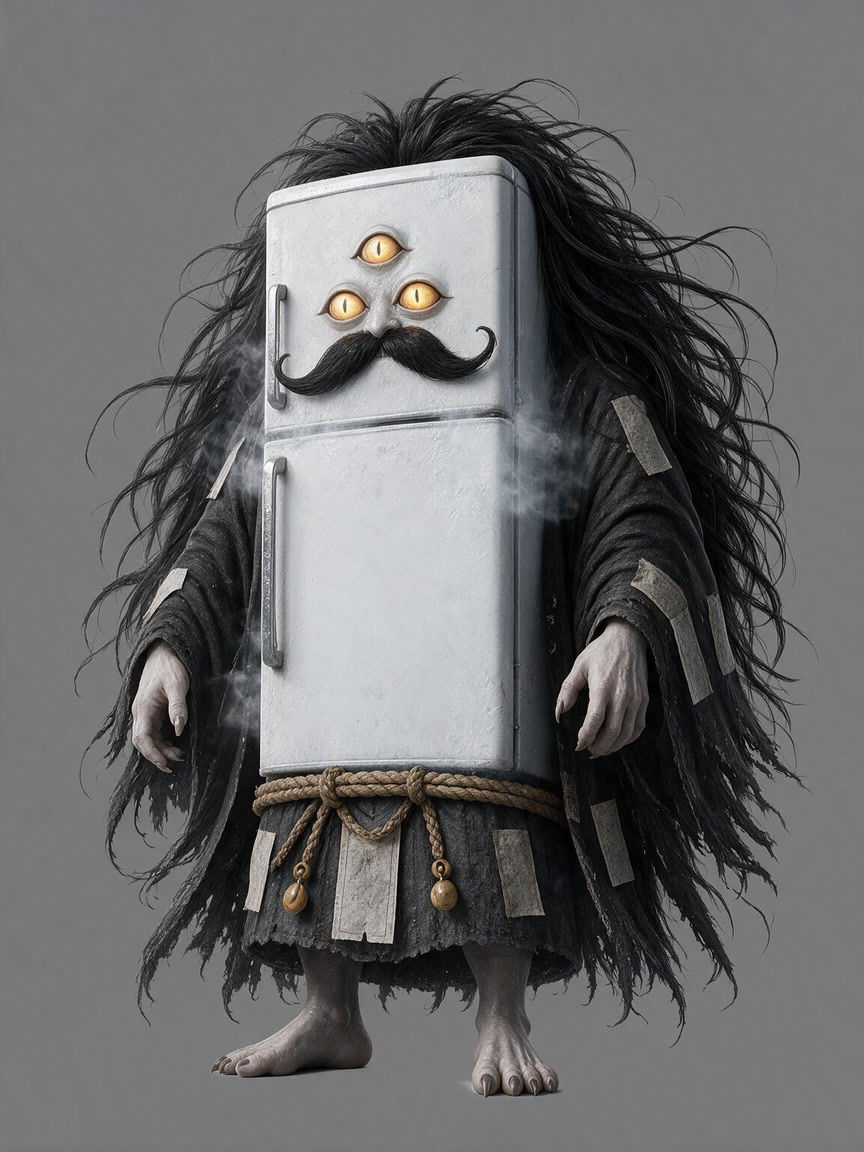
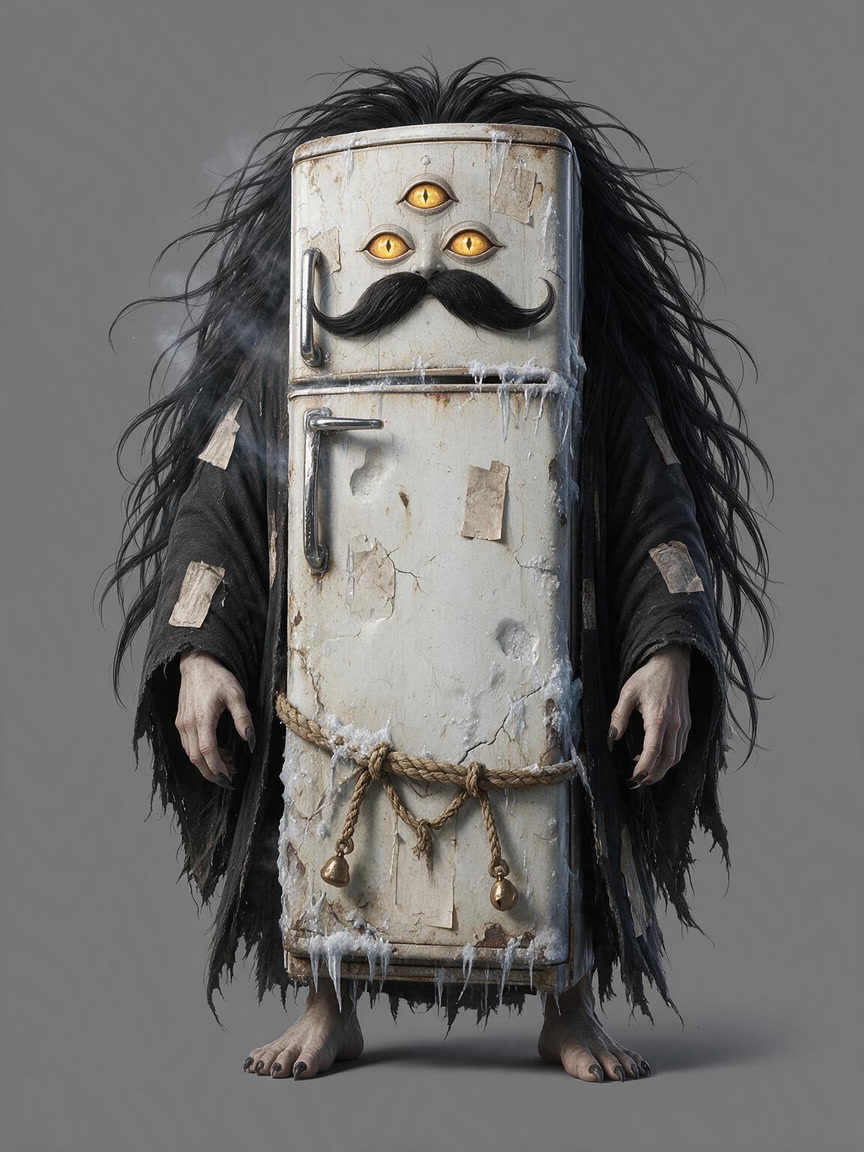
UI art: new pictures [skip ci]

diff --git a/apps/web/public/onboarding/s/last-run.md b/apps/web/public/onboarding/s/last-run.md
@@ -1,10 +1,5 @@
-# UI art — 2026-10-26T21:57:07.591Z
+# UI art — 2026-10-26T22:15:10.169Z
 
-Seedream 5.0 Pro / 6枚 / 約14円
+Seedream 5.0 Pro / 1枚 / 約8円
 
-- ✅ freezy-x-joy-o
-- ✅ freezy-x-shock-o
-- ✅ freezy-x-talk-o
-- ✅ kaiser1-x-joy-o
-- ✅ kaiser1-x-shock-o
-- ✅ kaiser1-x-talk-o
+- ✅ ref-freezy

diff --git a/apps/web/public/atelier/raw/last-run.md b/apps/web/public/atelier/raw/last-run.md
@@ -1,4 +1,4 @@
-# UI art — 2026-10-26T21:57:07.623Z
+# UI art — 2026-10-26T22:15:10.208Z
 
 Seedream 5.0 Pro / 0枚 / 約0円
 

diff --git a/apps/web/public/dj/art/last-run.md b/apps/web/public/dj/art/last-run.md
@@ -1,4 +1,4 @@
-# UI art — 2026-10-26T21:56:03.819Z
+# UI art — 2026-10-26T22:14:18.919Z
 
 Seedream 5.0 Pro / 0枚 / 約0円
 

diff --git a/apps/web/public/ui/parts/raw/last-run.md b/apps/web/public/ui/parts/raw/last-run.md
@@ -1,4 +1,4 @@
-# UI art — 2026-10-26T21:57:07.652Z
+# UI art — 2026-10-26T22:15:10.242Z
 
 Seedream 5.0 Pro / 0枚 / 約0円
 
